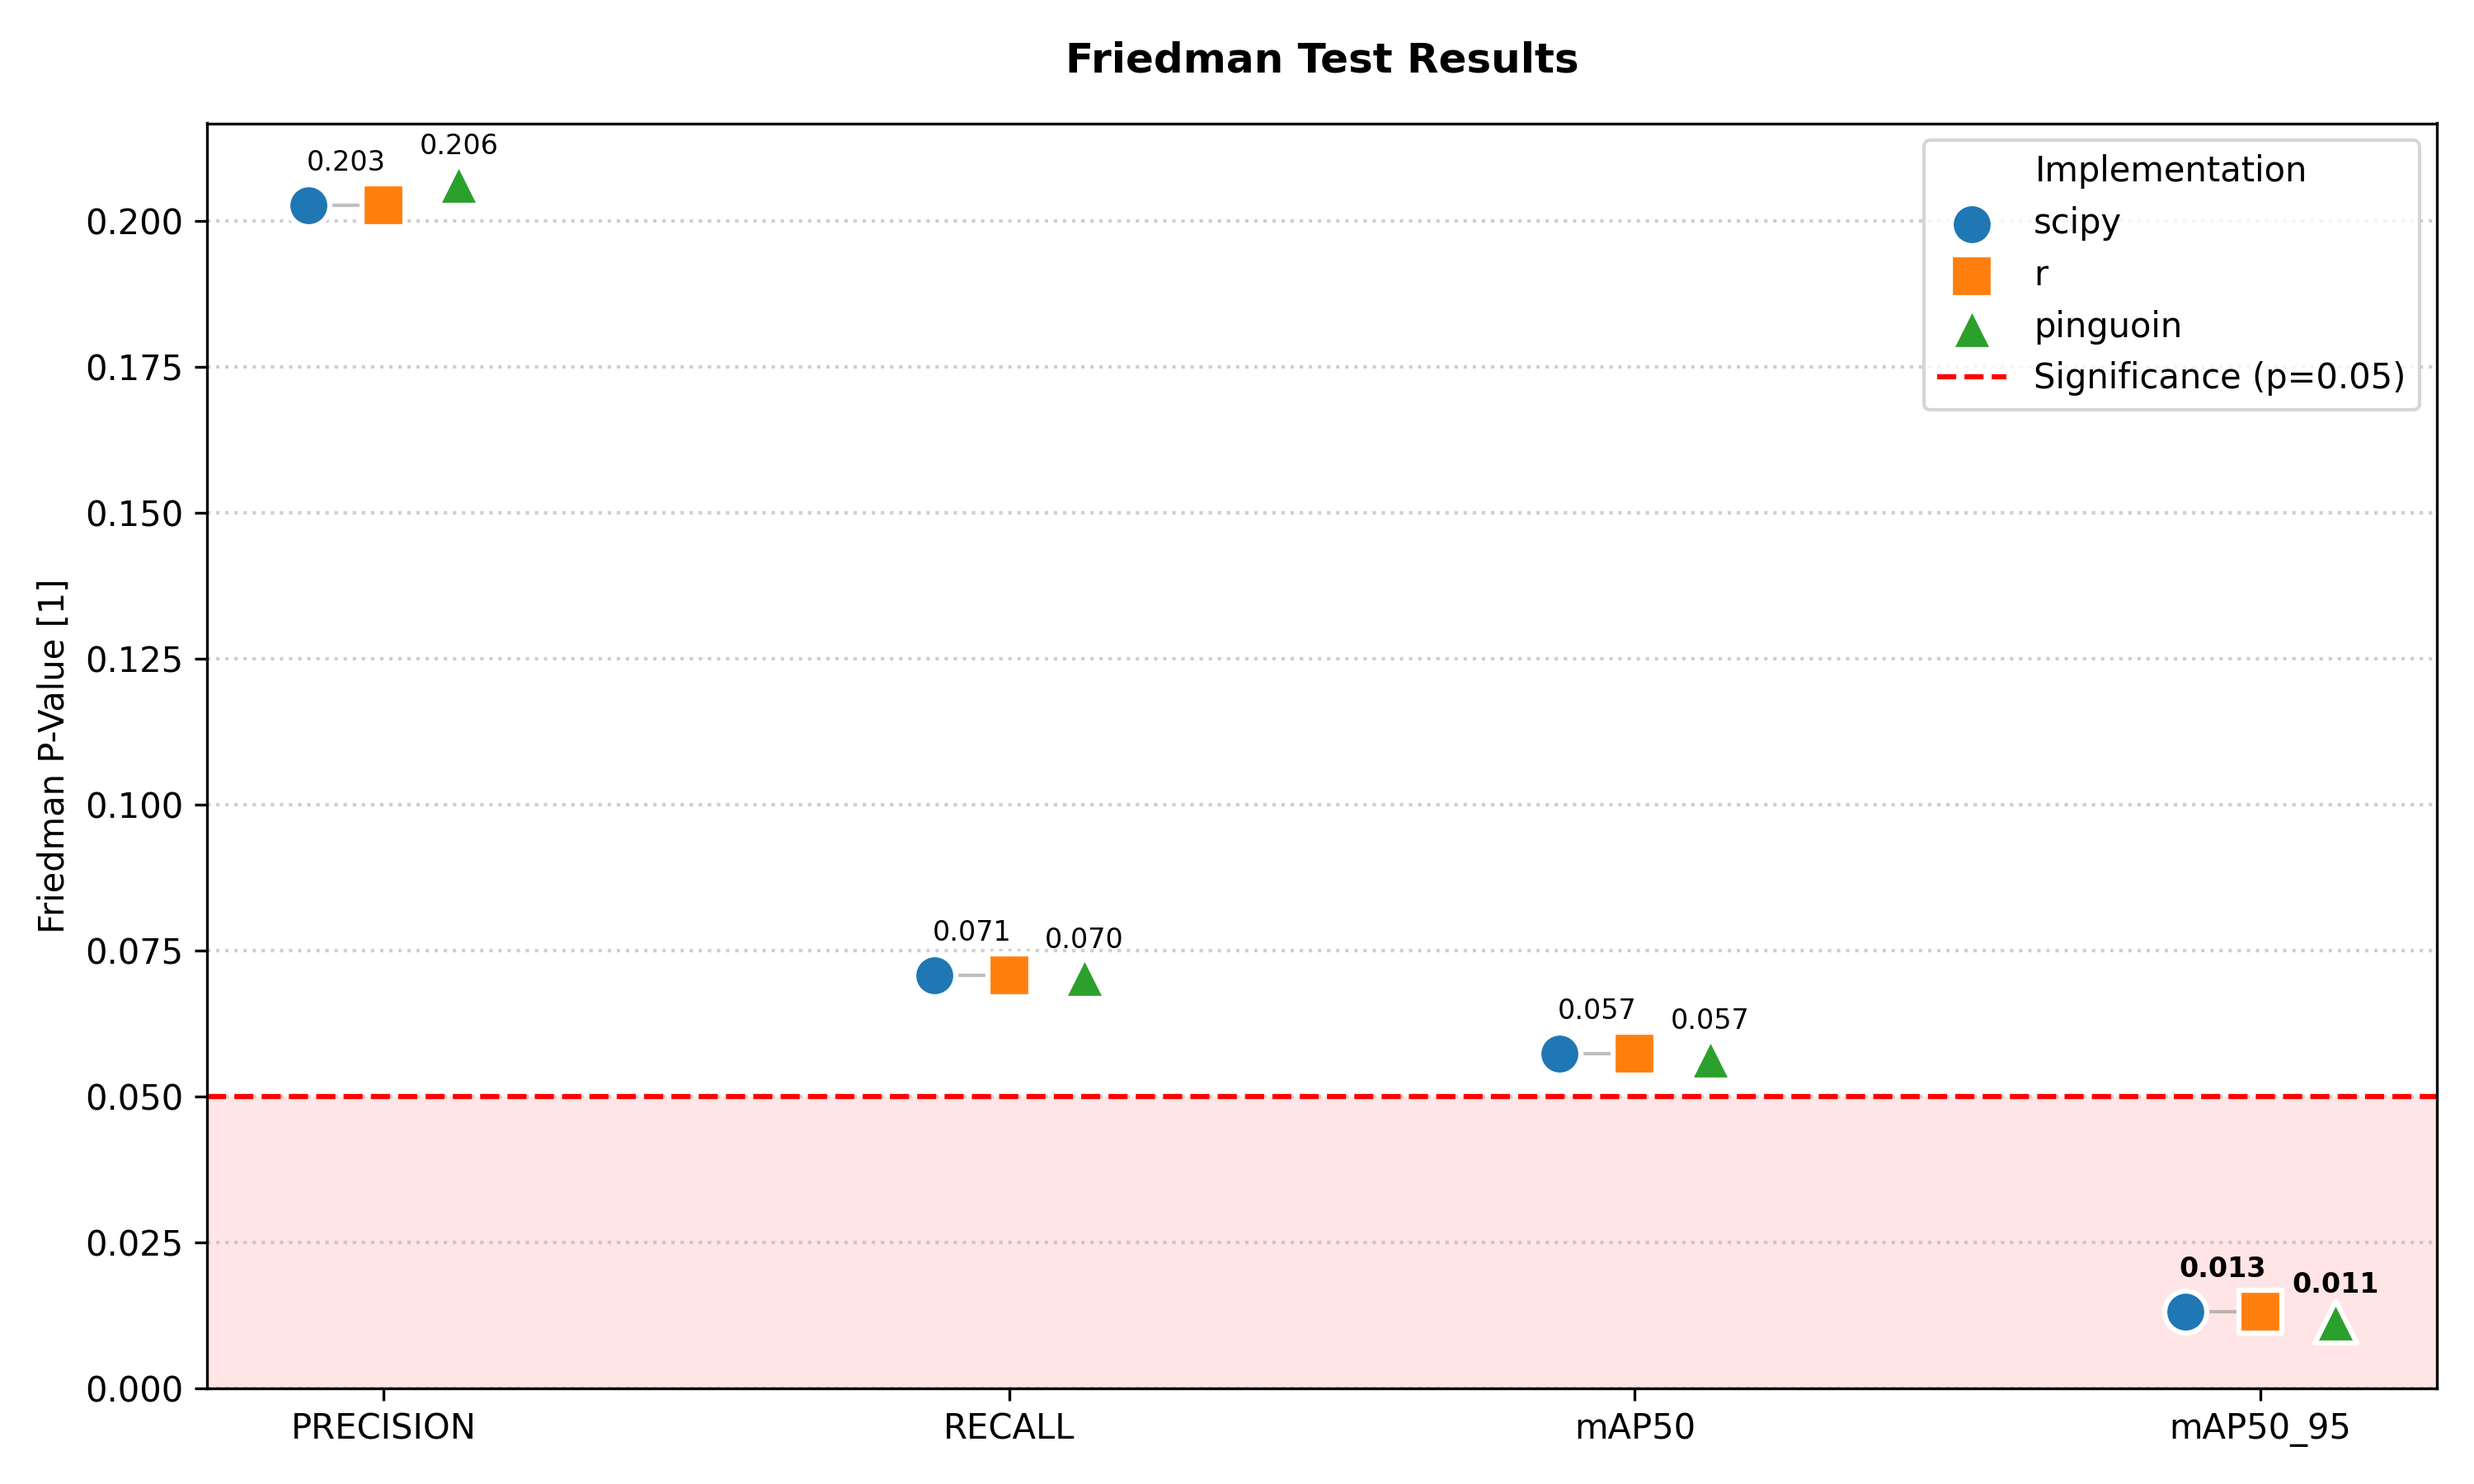
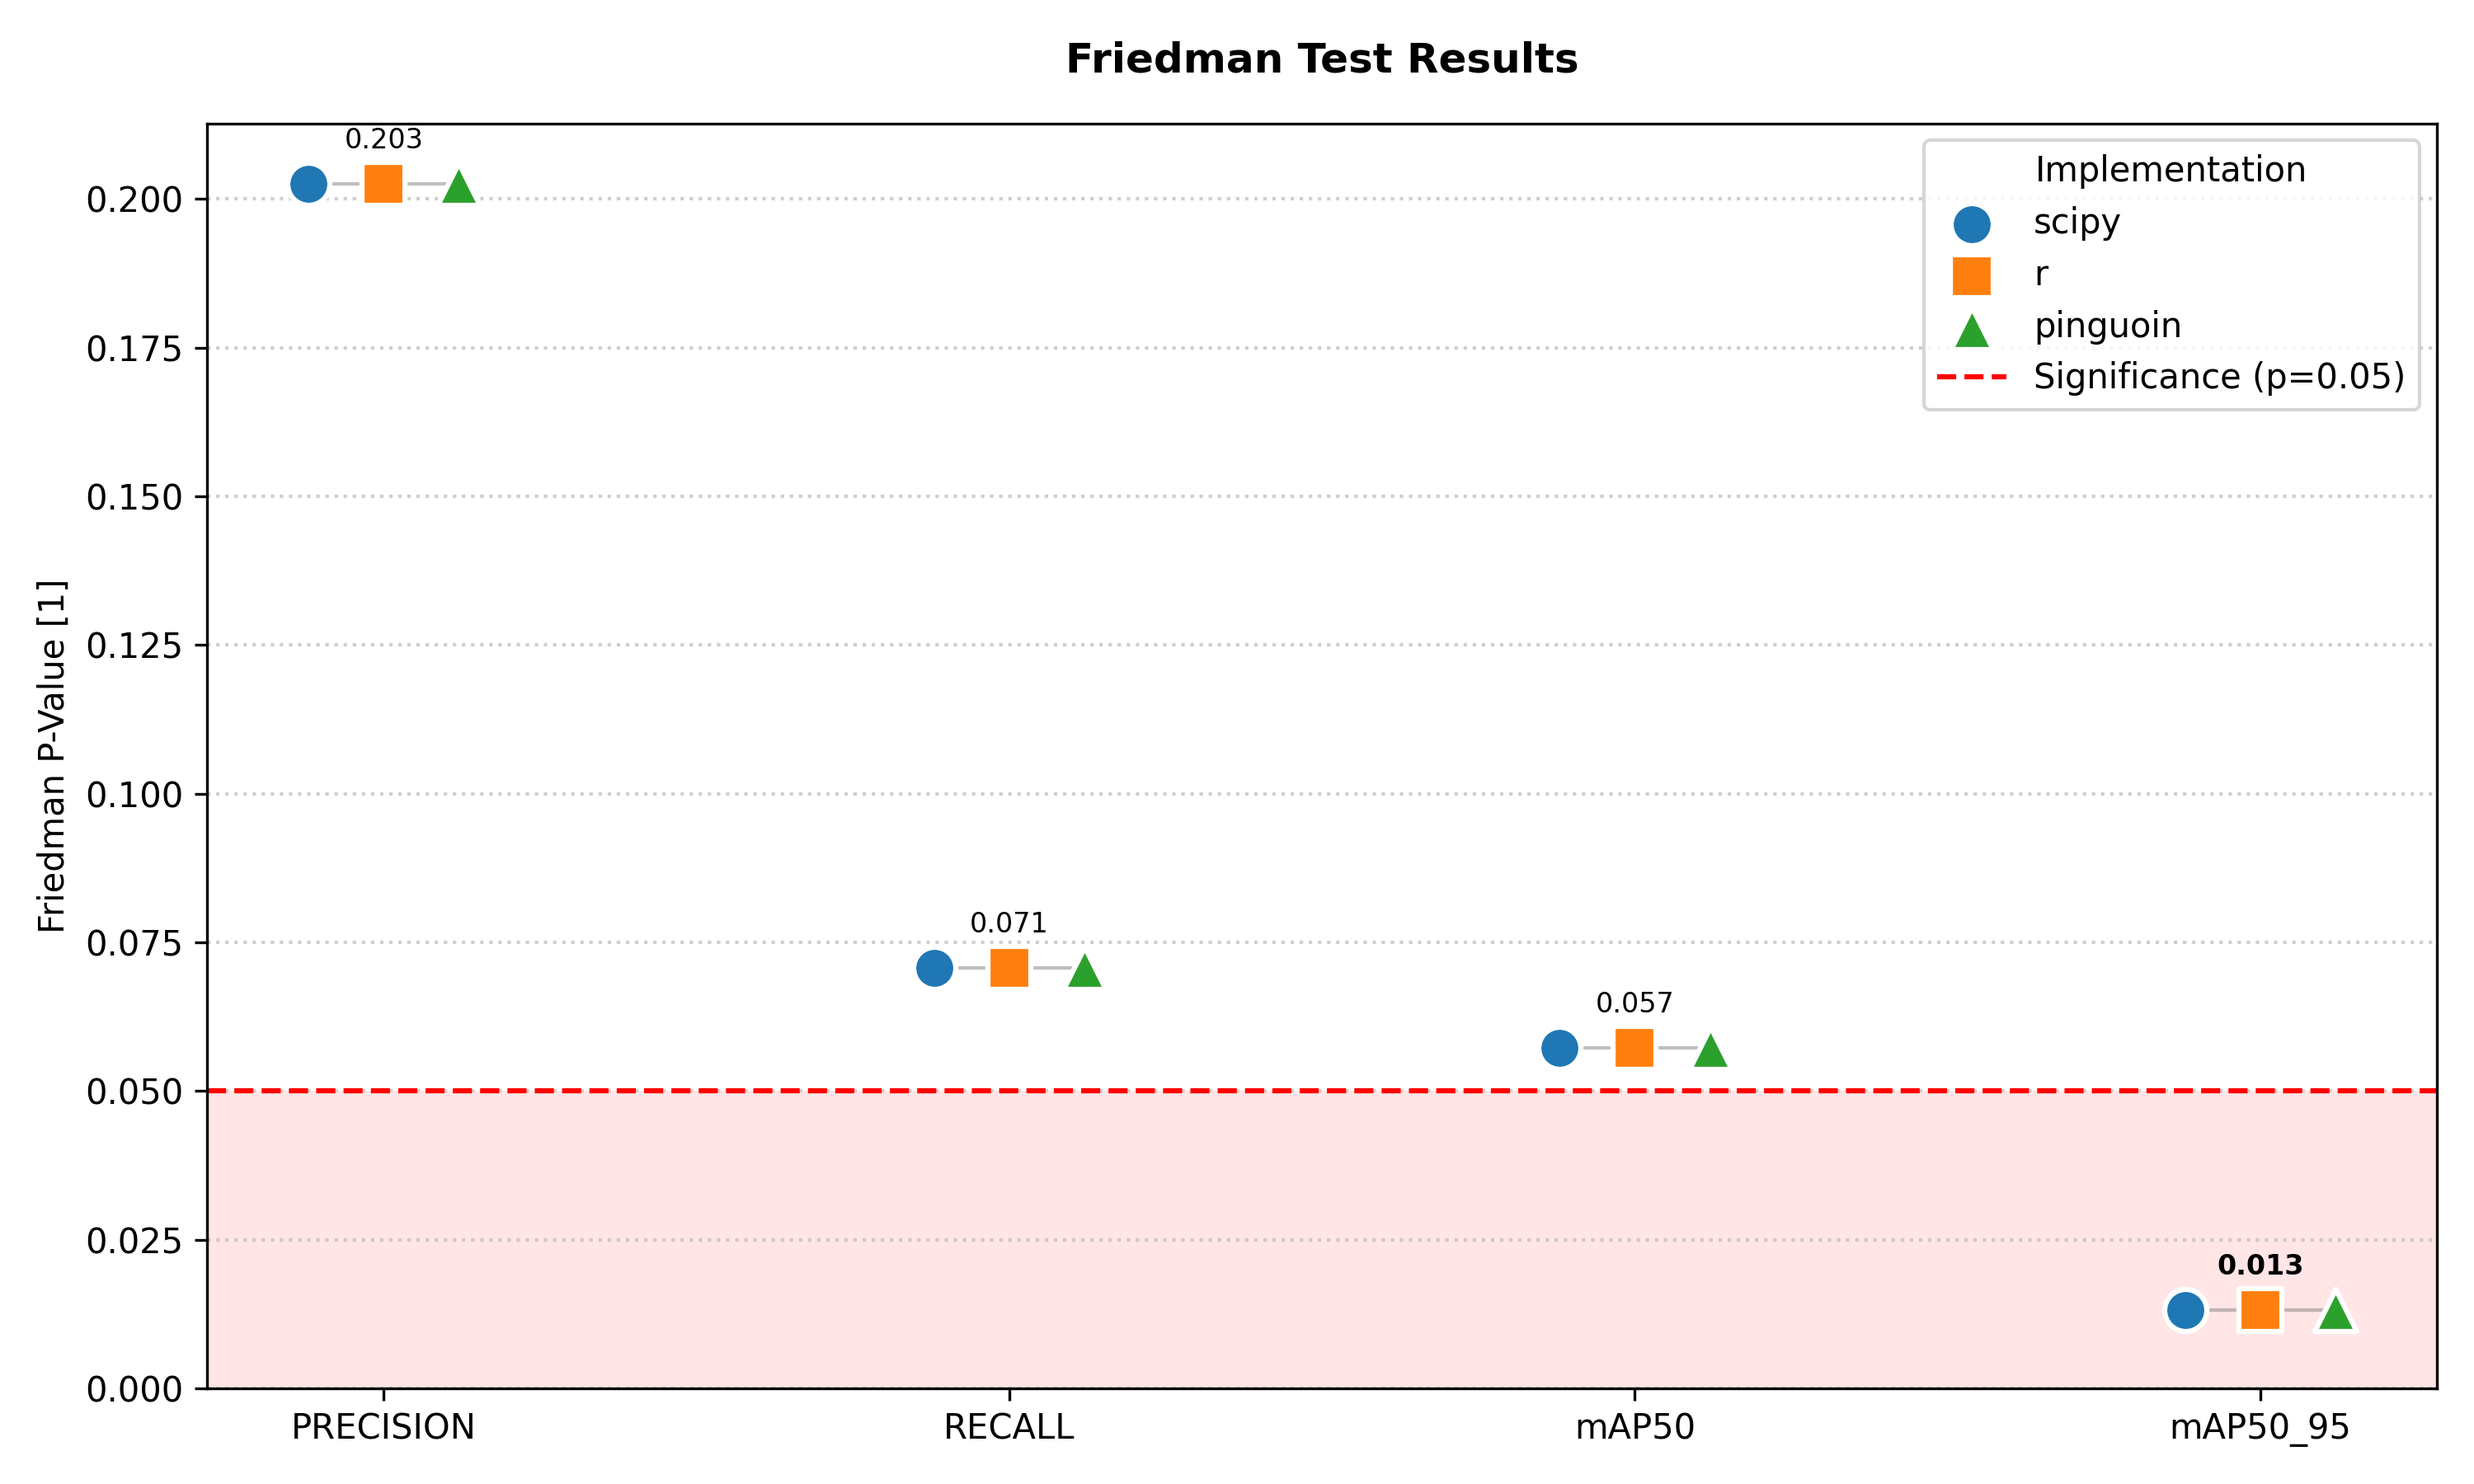
fix friedman stat pinguin

diff --git a/uav/visualization/friedman.py b/uav/visualization/friedman.py
@@ -28,25 +28,41 @@ def render_friedman(results_filepath: str, friedman_png_filepath: str) -> None:
 
     for i, metric in enumerate(METRICS):
         sub = df[df['measured_metric'] == metric]
-        val_scipy = sub[sub['implementation'] == 'scipy']['friedman_p'].values[0]
-        val_r = sub[sub['implementation'] == 'r']['friedman_p'].values[0]
-        val_ping = sub[sub['implementation'] == 'pinguoin']['friedman_p'].values[0]
-        
+        values = {impl: sub[sub['implementation'] == impl]['friedman_p'].values[0]
+                  for impl in IMPLEMENTATIONS}
+
         x_base = i
-        x_scipy = x_base - 0.12
-        x_r = x_base
-        x_ping = x_base + 0.12
-        
-        ax.plot([x_scipy, x_r], [val_scipy, val_r], color='gray', linewidth=1, alpha=0.5, zorder=1)
-        
-        center_sr = (x_scipy + x_r) / 2
-        fw_sr = 'bold' if val_scipy < SIG_THRESHOLD else 'normal'
-        ax.text(center_sr, val_scipy + 0.005, f'{val_scipy:.3f}', 
-                ha='center', va='bottom', fontsize=8, fontweight=fw_sr)
-        
-        fw_p = 'bold' if val_ping < SIG_THRESHOLD else 'normal'
-        ax.text(x_ping, val_ping + 0.004, f'{val_ping:.3f}', 
-                ha='center', va='bottom', fontsize=8, fontweight=fw_p)
+        x_positions = {
+            'scipy': x_base - 0.12,
+            'r': x_base,
+            'pinguoin': x_base + 0.12,
+        }
+
+        grouped = []
+        used = set()
+        for impl in IMPLEMENTATIONS:
+            if impl in used:
+                continue
+            group = [impl]
+            used.add(impl)
+            for other in IMPLEMENTATIONS:
+                if other not in used and np.isclose(values[impl], values[other], rtol=1e-9):
+                    group.append(other)
+                    used.add(other)
+            grouped.append(group)
+
+        for group in grouped:
+            val = values[group[0]]
+            x_coords = [x_positions[impl] for impl in group]
+
+            if len(group) > 1:
+                ax.plot([min(x_coords), max(x_coords)], [val, val],
+                        color='gray', linewidth=1, alpha=0.5, zorder=1)
+
+            center_x = np.mean(x_coords)
+            fw = 'bold' if val < SIG_THRESHOLD else 'normal'
+            ax.text(center_x, val + 0.005, f'{val:.3f}',
+                    ha='center', va='bottom', fontsize=8, fontweight=fw)
 
     ax.axhline(SIG_THRESHOLD, color=SIG_COLOR, linestyle='--', linewidth=1.5, label=f'Significance (p={SIG_THRESHOLD})')
     ax.axhspan(0, SIG_THRESHOLD, facecolor=SIG_COLOR, alpha=0.1, zorder=0)

diff --git a/uav/evaluation/implementations.py b/uav/evaluation/implementations.py
@@ -123,7 +123,7 @@ class PinguoinEvaluation(ImplementationEvaluation):
             'v3': {i: v for i, v in enumerate(measurements_three)},
         })
 
-        friedman_p = pg.friedman(data=df, method='f')['p-unc'].values[0]
+        friedman_p = pg.friedman(data=df, method='chisq')['p-unc'].values[0]
                     
         wilcoxon_ps[0] =  pg.wilcoxon(measurements_one, measurements_two)['p-val'].values[0]
         wilcoxon_ps[1] =  pg.wilcoxon(measurements_two, measurements_three)['p-val'].values[0]
